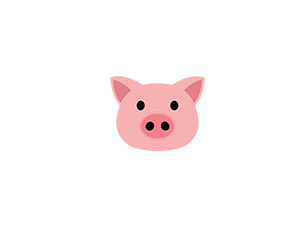
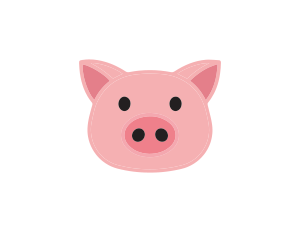
update

Changed region(s): [[0.24, 0.2414, 0.75, 0.7543]]

diff --git a/sketch4.js b/sketch4.js
@@ -4,7 +4,7 @@ let img2;
 let cnv;
 
 function setup() {
-  createCanvas(600, 600);
+  createCanvas(800, 800);
   pos = createVector(random(0, 200), random(0, 200));
 
 }
@@ -12,6 +12,7 @@ function setup() {
 function preload() {
   img = loadImage('pig.png');
   img2 = loadImage('sugar.png');
+  bubble = loadImage('pig2.png');
   let a = createA('pagefive.html', 'Next Page');
 }
 
@@ -20,18 +21,18 @@ function draw() {
   texts();
   fill('#EE7179');
   textFont(`Barriecito`);
-  textSize(30);
-  text(contents, 339, 477, width-40, height-40);
+  textSize(50);
+  text(contents, 550, 462, width-40, height-40);
+  click();
 }
 
 function texts() {
   text("I ran out of sugar.", 30, 100);
   text("So I walked down the street to", 130, 300);
-  text("ask my neighbor for a cup of sugar.", 130, 350 );
+  text("ask my neighbor for a cup of sugar.", 20, 350 );
   text("Now the neighbor was a", 30, 500);
-  image(img, 320, 380);
-  image(img2, 320, 0);
-  
+  image(img, 550, 380);
+  image(img2, 500, 0);
   }
 
 function keyTyped() {
@@ -44,9 +45,18 @@ function keyReleased(){
   contents = contents.substring(0, contents.length -1);
     //in python: contents[:-1]
   }
-  
+
   if (keyCode == 71) {
     background('#C6E1AC');
   }
 }
 
+function click() {
+  let button = dist(mouseX, mouseY, img.x, img.y);
+  if (button <= 50) {
+    imageMode(CENTER); 
+    image(bubble, 550, 380);
+    console.log("click!");
+  }
+
+}

diff --git a/style.css b/style.css
@@ -4,11 +4,17 @@
 html, body {
   margin: 0;
   padding: 0;
-  font: 'Barriecito';
+  font-family: "Barriecito", system-ui;
 }
 
 body {
   background-color: #C6E1AC;
+}
+
+h1 {
+  font-family: "Barriecito", system-ui;
+  color:#EE7179;
+  margin: auto;
 }
 canvas {
   display: block;
@@ -17,7 +23,15 @@ canvas {
 }
 
 a {
+  font-family: "Barriecito", system-ui;
   margin-left: 70rem;
   text-decoration: none;
-  color:'#EE7179';
+  color:#EE7179;
+}
+
+
+a:hover {
+  background-color: darkgreen;
+  color:azure;
+  transform: scale(1.5);
 }

diff --git a/sketch2.js b/sketch2.js
@@ -6,11 +6,12 @@ function preload() {
 }
 
 function setup() {
-  createCanvas(600, 600);
+  createCanvas(800, 800);
   let a = createA('pagethree.html', 'Next Page');
   textFont(`Barriecito`);
   background('#C6E1AC');
   textSize(20);
+  fill('#EE7179');
   text("I don’t know how this whole Big Bad Wolf thing got started,", 60,     288);
 }
 

diff --git a/sketch.js b/sketch.js
@@ -10,13 +10,15 @@ var last = 0;
 function preload() {
   img = loadImage('wolf1.png');
   let a = createA('pagetwo.html', 'Next Page');
+
 }
 
 function setup() {
-  createCanvas(600, 600);
+  createCanvas(800, 800);
   textSize(40);
   textAlign(CENTER, CENTER);
   textFont('Barriecito');
+  fill('#EE7179');
 }
 
 function draw() {

diff --git a/sketch3.js b/sketch3.js
@@ -12,7 +12,6 @@ function preload() {
 function setup() {
   createCanvas(600, 600);
   let a = createA('pagefour.html', 'Next Page');
-
 }
 
 function draw() {

diff --git a/pagefour.html b/pagefour.html
@@ -9,6 +9,7 @@
   </head>
   <body>
     <main>
+        <h1>Type Pig</h1>
     </main>
     <script src="sketch4.js"></script>
   </body>

diff --git a/pagetwo.html b/pagetwo.html
@@ -9,6 +9,7 @@
   </head>
   <body>
     <main>
+      <h1>Type Wolf</h1>
     </main>
     <script src="sketch2.js"></script>
   </body>

diff --git a/index.html b/index.html
@@ -9,7 +9,7 @@
   </head>
   <body>
     <main>
-
+      
     </main>
     <script src="sketch.js"></script>
   </body>
